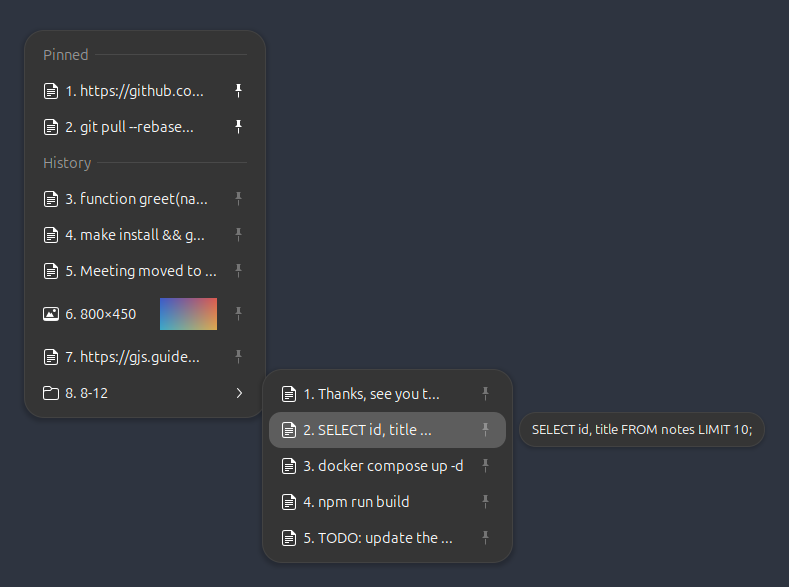
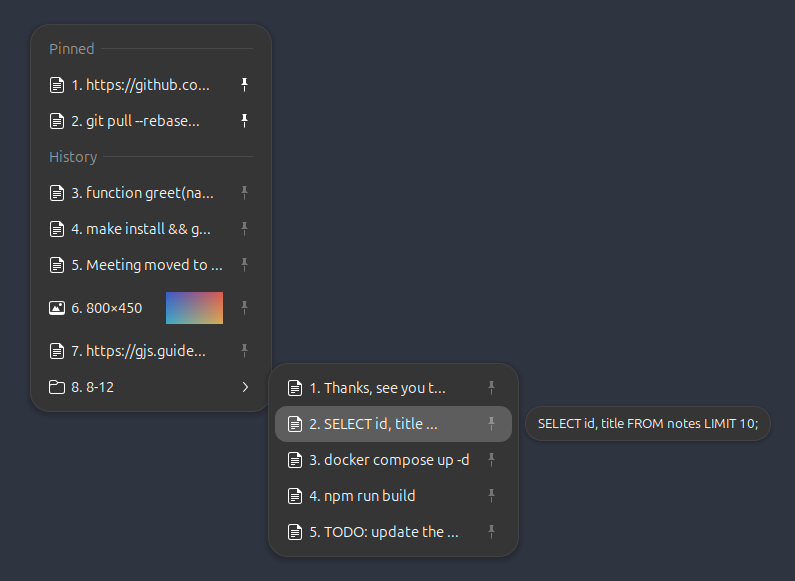
fix panel position

diff --git a/tests/smoke/extension.js b/tests/smoke/extension.js
@@ -222,6 +222,7 @@ export default class SmokeExtension extends Extension {
         await this._testSideSubmenus(gclipy, settings);
         await this._testDeleteKey(gclipy, settings);
         await this._testEdit(gclipy);
+        await this._testScreenEdges(gclipy, settings);
 
         gclipy.openPreferences();
         await wait(3000);
@@ -351,6 +352,59 @@ export default class SmokeExtension extends Extension {
         pointer.run_dispose();
         keyboard.run_dispose();
         return gclipy;
+    }
+
+    async _testScreenEdges(gclipy, settings) {
+        const clipboard = St.Clipboard.get_default();
+        const pointer = Clutter.get_default_backend().get_default_seat()
+            .create_virtual_device(Clutter.InputDeviceType.POINTER_DEVICE);
+        const menu = gclipy._pointerMenu.menu;
+        const workArea = Main.layoutManager.getWorkAreaForMonitor(Main.layoutManager.primaryIndex);
+        const inside = actor => {
+            const [x, y] = actor.get_transformed_position();
+            const [width, height] = actor.get_transformed_size();
+            return x >= workArea.x && y >= workArea.y &&
+                x + width <= workArea.x + workArea.width + 1 && y + height <= workArea.y + workArea.height + 1;
+        };
+        const describe = actor => `${actor.get_transformed_position()} ${actor.get_transformed_size()} in ` +
+            `${workArea.x},${workArea.y} ${workArea.width}x${workArea.height}`;
+
+        for (let i = 0; i < 12; i++) {
+            clipboard.set_text(St.ClipboardType.CLIPBOARD, `edge ${i}`);
+            await wait(150);
+        }
+        // A menu taller than the room both below and above the pointer.
+        settings.set_int('inline-limit', 12);
+        for (const [x, y] of [[300, workArea.y + workArea.height / 2], [300, workArea.y + workArea.height - 10],
+            [workArea.x + workArea.width - 10, workArea.y + workArea.height - 10]]) {
+            pointer.notify_absolute_motion(GLib.get_monotonic_time(), x, y);
+            await wait(100);
+            gclipy._popUp('history');
+            await wait(600);
+            check(`menu opened at ${Math.round(x)},${Math.round(y)} stays on screen`, menu.isOpen && inside(menu.actor),
+                describe(menu.actor));
+            menu.close();
+            await wait(300);
+        }
+        settings.reset('inline-limit');
+
+        // A folder near the bottom keeps its side panel on screen.
+        settings.set_int('inline-limit', 0);
+        settings.set_int('folder-limit', 12);
+        pointer.notify_absolute_motion(GLib.get_monotonic_time(), 300, workArea.y + workArea.height - 10);
+        await wait(100);
+        gclipy._popUp('history');
+        await wait(600);
+        const folder = menu._getMenuItems().find(item => item.panelMenu);
+        folder.grab_key_focus();
+        await wait(400);
+        check('a folder\'s side panel near the bottom stays on screen', folder.isSubmenuOpen &&
+            inside(folder.panelMenu.actor), describe(folder.panelMenu.actor));
+        menu.close();
+        await wait(300);
+        settings.reset('inline-limit');
+        settings.reset('folder-limit');
+        pointer.run_dispose();
     }
 
     async _testEdit(gclipy) {

diff --git a/shell/pointerMenu.js b/shell/pointerMenu.js
@@ -12,7 +12,11 @@ export class PointerMenu {
         this._anchor = new St.Widget({width: 1, height: 1, opacity: 0, reactive: false});
         Main.layoutManager.uiGroup.add_child(this._anchor);
 
-        this.menu = new PopupMenu.PopupMenu(this._anchor, 0.0, St.Side.TOP);
+        // Opening beside the pointer (arrow on the left) rather than below it lets BoxPointer slide
+        // the menu up when the pointer is low on the screen: on the left or right side it keeps the
+        // menu inside the work area vertically, while below the pointer it would only flip above,
+        // and only when the whole menu fits there, so a long menu could run off the bottom.
+        this.menu = new PopupMenu.PopupMenu(this._anchor, 0.0, St.Side.LEFT);
         Main.layoutManager.uiGroup.add_child(this.menu.actor);
         this.menu.actor.hide();
 
